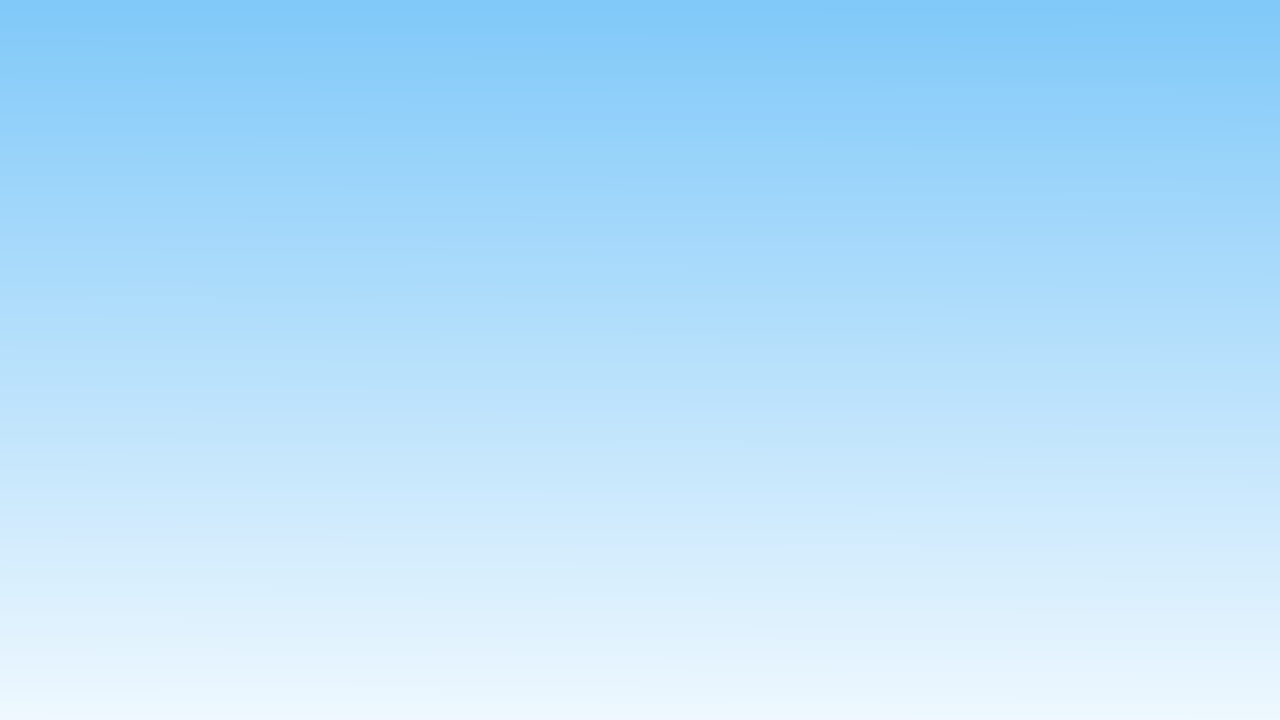
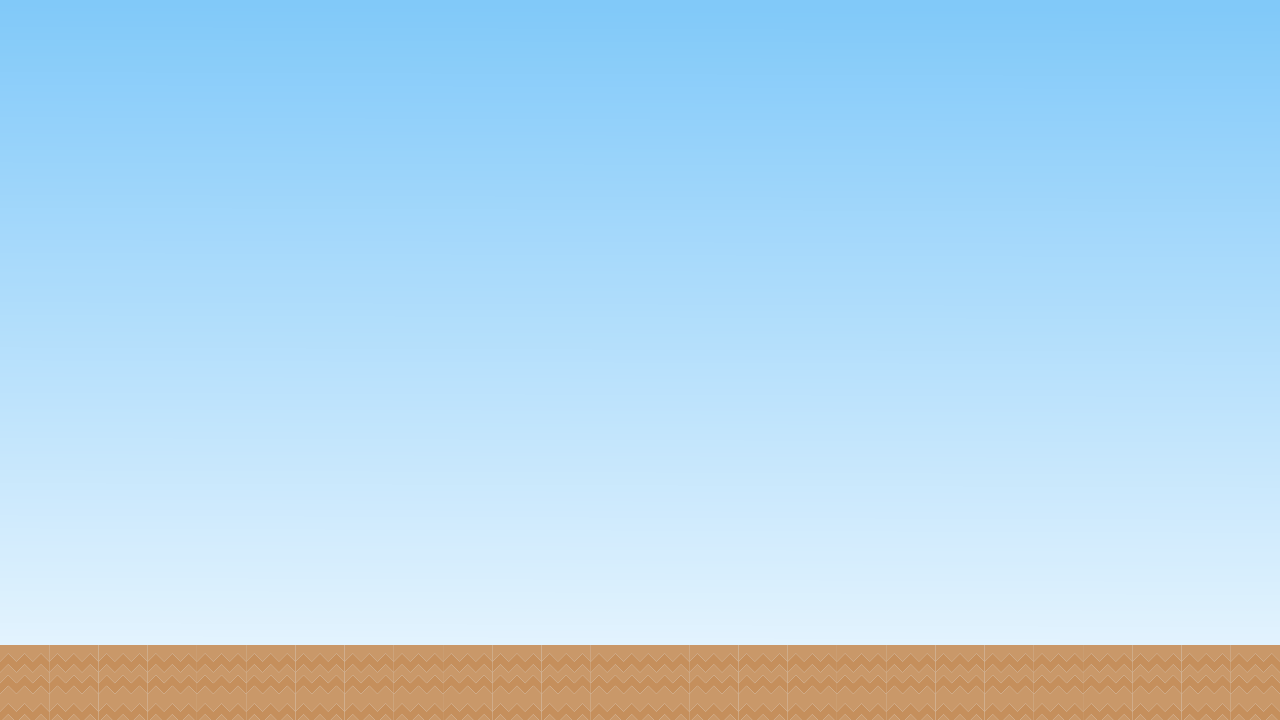
Earth class agregada y simulacion de elevacion de terreno implementada

Changed region(s): [[0.0, 0.8861, 1.0, 1.0]]

diff --git a/ProtectTheTown/src/com/lucianosimo/protectthetown/scene/GameScene.java b/ProtectTheTown/src/com/lucianosimo/protectthetown/scene/GameScene.java
@@ -34,6 +34,7 @@ import com.badlogic.gdx.physics.box2d.Manifold;
 import com.lucianosimo.protectthetown.base.BaseScene;
 import com.lucianosimo.protectthetown.manager.SceneManager;
 import com.lucianosimo.protectthetown.manager.SceneManager.SceneType;
+import com.lucianosimo.protectthetown.object.Earth;
 import com.lucianosimo.protectthetown.object.Floor;
 import com.lucianosimo.protectthetown.object.House;
 import com.lucianosimo.protectthetown.object.LargeHouse;
@@ -633,7 +634,7 @@ public class GameScene extends BaseScene{
 		largeHouseHealthBarBackground.setColor(Color.RED_ARGB_PACKED_INT);
 		largeHouseHealthBar.setColor(Color.GREEN_ARGB_PACKED_INT);
 		
-		house = new House(650, housesInitialHeight, vbom, camera, physicsWorld) {
+		house = new House(600, housesInitialHeight, vbom, camera, physicsWorld) {
 			@Override
 			protected void onManagedUpdate(float pSecondsElapsed) {
 				super.onManagedUpdate(pSecondsElapsed);
@@ -659,7 +660,7 @@ public class GameScene extends BaseScene{
 			}
 		};
 		
-		smallHouse = new SmallHouse(300, housesInitialHeight, vbom, camera, physicsWorld) {
+		smallHouse = new SmallHouse(240, housesInitialHeight, vbom, camera, physicsWorld) {
 			@Override
 			protected void onManagedUpdate(float pSecondsElapsed) {
 				super.onManagedUpdate(pSecondsElapsed);
@@ -684,7 +685,7 @@ public class GameScene extends BaseScene{
 			}
 		};
 		
-		largeHouse = new LargeHouse(1000, housesInitialHeight, vbom, camera, physicsWorld) {
+		largeHouse = new LargeHouse(1040, housesInitialHeight, vbom, camera, physicsWorld) {
 			@Override
 			protected void onManagedUpdate(float pSecondsElapsed) {
 				super.onManagedUpdate(pSecondsElapsed);
@@ -727,7 +728,10 @@ public class GameScene extends BaseScene{
 	 * Creates floor on level generation
 	 */
 	private void createFloor() {
-		int[] floor_positions = {80, 241, 404, 567, 730, 896, 1055, 1220};
+		//int[] floor_positions = {80, 241, 404, 567, 730, 896, 1055, 1220};
+		Random rand = new Random();
+		int elevation;
+		int[] floor_positions = {80, 240, 400, 560, 720, 880, 1040, 1200};
 		Floor[] floor = new Floor[8];
  		
 		Sprite base_floor = new Sprite(screenWidth/2, 0, resourcesManager.game_base_floor_region, vbom);
@@ -737,9 +741,14 @@ public class GameScene extends BaseScene{
 		GameScene.this.attachChild(base_floor);
 		
 		for (int i = 0; i < 8; i++) {
-			floor[i] = new Floor(floor_positions[i], 100 + 10 * i, vbom, camera, physicsWorld);
+			elevation = rand.nextInt(8) + 1;
+			floor[i] = new Floor(floor_positions[i], 200, vbom, camera, physicsWorld);
 			floor[i].setCullingEnabled(true);
 			GameScene.this.attachChild(floor[i]);
+			if (elevation == 2) {
+				Earth earth = new Earth(floor_positions[i], 50, vbom, camera, physicsWorld);
+				GameScene.this.attachChild(earth);
+			}
 		}
 		
 	}
@@ -1396,6 +1405,26 @@ public class GameScene extends BaseScene{
 				}
 				
 				if (x1.getBody().getUserData().equals("base_floor") && x2.getBody().getUserData().equals("floor")) {
+					engine.runOnUpdateThread(new Runnable() {
+						
+						@Override
+						public void run() {
+							x2.getBody().setType(BodyType.StaticBody);
+						}
+					});
+				}
+				
+				if (x1.getBody().getUserData().equals("floor") && x2.getBody().getUserData().equals("earth")) {
+					engine.runOnUpdateThread(new Runnable() {
+						
+						@Override
+						public void run() {
+							x1.getBody().setType(BodyType.StaticBody);
+						}
+					});
+				}
+				
+				if (x1.getBody().getUserData().equals("earth") && x2.getBody().getUserData().equals("floor")) {
 					engine.runOnUpdateThread(new Runnable() {
 						
 						@Override

diff --git a/ProtectTheTown/src/com/lucianosimo/protectthetown/manager/ResourcesManager.java b/ProtectTheTown/src/com/lucianosimo/protectthetown/manager/ResourcesManager.java
@@ -72,6 +72,7 @@ public class ResourcesManager {
 	
 	//Platforms
 	public ITextureRegion game_floor_region;
+	public ITextureRegion game_earth_region;
 	public ITextureRegion game_base_floor_region;
 	
 	//Backgrounds
@@ -190,10 +191,10 @@ public class ResourcesManager {
 	private void loadGameGraphics() {
 		BitmapTextureAtlasTextureRegionFactory.setAssetBasePath("gfx/game/");
 		
-		gameTextureAtlas = new BuildableBitmapTextureAtlas(activity.getTextureManager(), 1500, 1500, TextureOptions.BILINEAR);
+		gameTextureAtlas = new BuildableBitmapTextureAtlas(activity.getTextureManager(), 1500, 1500, TextureOptions.BILINEAR_PREMULTIPLYALPHA);
 		gameWindowsTextureAtlas = new BuildableBitmapTextureAtlas(activity.getTextureManager(), 1000, 1000, TextureOptions.BILINEAR);
 		gameAnimatedTextureAtlas = new BuildableBitmapTextureAtlas(activity.getTextureManager(), 1000, 1000, TextureOptions.BILINEAR);
-		gameBackgroundTextureAtlas = new BuildableBitmapTextureAtlas(activity.getTextureManager(), 1280, 720, TextureOptions.BILINEAR);
+		gameBackgroundTextureAtlas = new BuildableBitmapTextureAtlas(activity.getTextureManager(), 1280, 720, TextureOptions.BILINEAR_PREMULTIPLYALPHA);
 		
 		game_background_region = BitmapTextureAtlasTextureRegionFactory.createFromAsset(gameBackgroundTextureAtlas, activity, "game_background.png");
 		
@@ -216,6 +217,7 @@ public class ResourcesManager {
 		game_health_bar_frame_region = BitmapTextureAtlasTextureRegionFactory.createFromAsset(gameTextureAtlas, activity, "game_health_bar_frame.png");
 		
 		game_base_floor_region = BitmapTextureAtlasTextureRegionFactory.createFromAsset(gameTextureAtlas, activity, "game_base_floor.png");
+		game_earth_region = BitmapTextureAtlasTextureRegionFactory.createFromAsset(gameTextureAtlas, activity, "game_earth.png");
 		game_floor_region = BitmapTextureAtlasTextureRegionFactory.createFromAsset(gameTextureAtlas, activity, "game_floor.png");
 		
 		game_window_region = BitmapTextureAtlasTextureRegionFactory.createFromAsset(gameWindowsTextureAtlas, activity, "game_window.png");

diff --git a/ProtectTheTown/src/com/lucianosimo/protectthetown/object/Earth.java b/ProtectTheTown/src/com/lucianosimo/protectthetown/object/Earth.java
@@ -12,30 +12,28 @@ import com.badlogic.gdx.physics.box2d.BodyDef.BodyType;
 import com.badlogic.gdx.physics.box2d.FixtureDef;
 import com.lucianosimo.protectthetown.manager.ResourcesManager;
 
-public class Floor extends Sprite{
+public class Earth extends Sprite{
 
 	private Body body;
 	private FixtureDef fixture;
 	
-	public Floor(float pX, float pY, VertexBufferObjectManager vbom, Camera camera, PhysicsWorld physicsWorld) {
-		super(pX, pY, ResourcesManager.getInstance().game_floor_region.deepCopy(), vbom);
+	public Earth(float pX, float pY, VertexBufferObjectManager vbom, Camera camera, PhysicsWorld physicsWorld) {
+		super(pX, pY, ResourcesManager.getInstance().game_earth_region.deepCopy(), vbom);
 		createPhysics(camera, physicsWorld);
 		//camera.setChaseEntity(this);
 	}
 	
 	private void createPhysics(final Camera camera, PhysicsWorld physicsWorld) {
-		this.setUserData("floor");
+		this.setUserData("earth");
 		fixture = PhysicsFactory.createFixtureDef(0, 0, 0);
-		fixture.filter.groupIndex = -2;
-		body = PhysicsFactory.createBoxBody(physicsWorld, this, BodyType.DynamicBody, fixture);
-		body.setUserData("floor");
+		body = PhysicsFactory.createBoxBody(physicsWorld, this, BodyType.StaticBody, fixture);
+		body.setUserData("earth");
 		body.setFixedRotation(true);
 		physicsWorld.registerPhysicsConnector(new PhysicsConnector(this, body, true, false) {
 			@Override
 			public void onUpdate(float pSecondsElapsed) {
 				super.onUpdate(pSecondsElapsed);
 				camera.onUpdate(0.1f);
-				body.setLinearVelocity(body.getLinearVelocity().x, -7);
 			}
 		});
 	}
